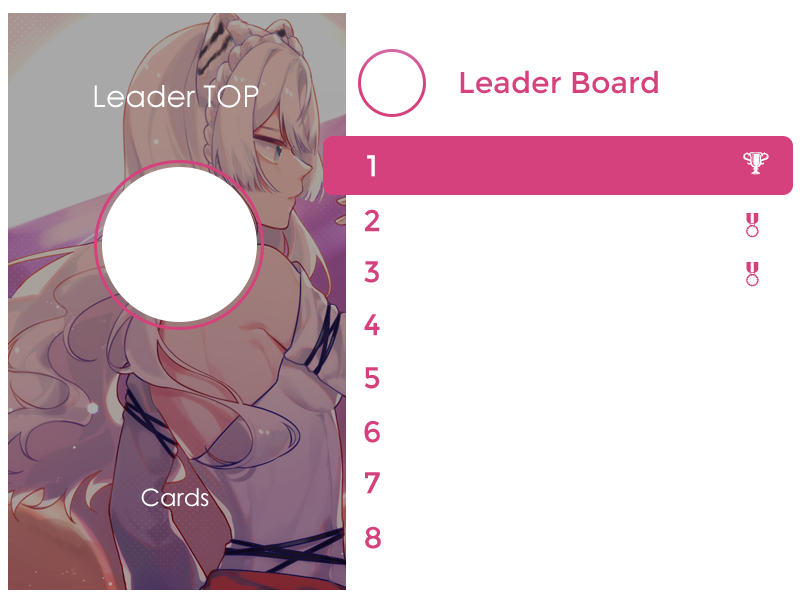
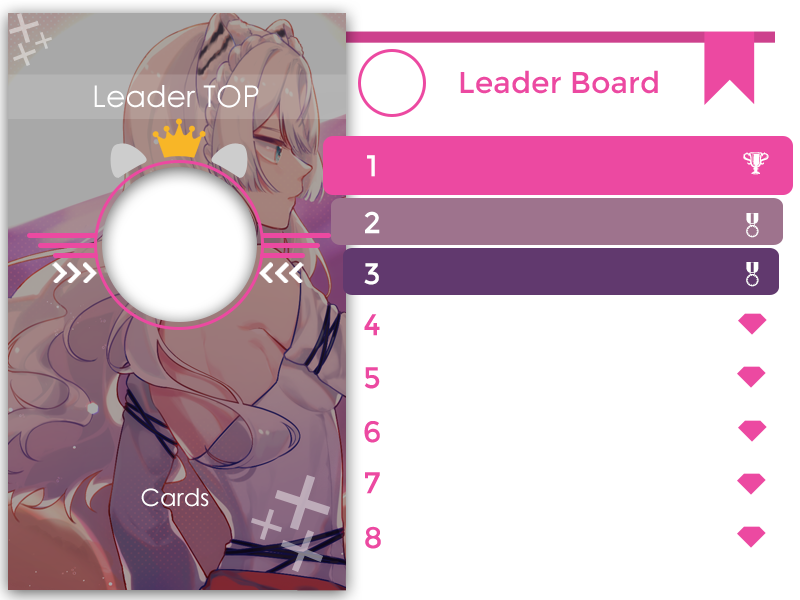
change leaderboard

diff --git a/src/commands/Shoob/Leaderboard.js b/src/commands/Shoob/Leaderboard.js
@@ -65,9 +65,8 @@ module.exports = {
     ctx.drawImage(background, 0, 0, canvas.width, canvas.height);
     ctx.textAlign = "center";
 
-    for (const entry of claimers) {
-      const index = claimers.indexOf(entry);
-      const first = index === 0;
+    for (const [i, entry] of claimers.entries()) {
+      const first = i === 0;
       const user = await instance.client.users.fetch(entry.discord_id);
       const discriminator = user ? user.discriminator : "#0000";
       const name = user
@@ -99,12 +98,12 @@ module.exports = {
         ctx.fillText(name, 172, 363);
       }
       ctx.font = "30px Century Gothic";
-      ctx.fillStyle = first ? "#ffffff" : "#d5417c";
+      ctx.fillStyle = i <= 3 ? "#ffffff" : "#d5417c";
       ctx.textAlign = "left";
-      ctx.fillText(name, 405, 176 + 53 * index);
+      ctx.fillText(name, 405, 176 + 53 * i);
       ctx.font = "24px Century Gothic";
       ctx.textAlign = "center";
-      ctx.fillText(entry.c, 710, 176 + 53 * index);
+      ctx.fillText(entry.c, 710, 176 + 53 * i);
     }
     const attachment = new MessageAttachment(
       canvas.toBuffer(),
